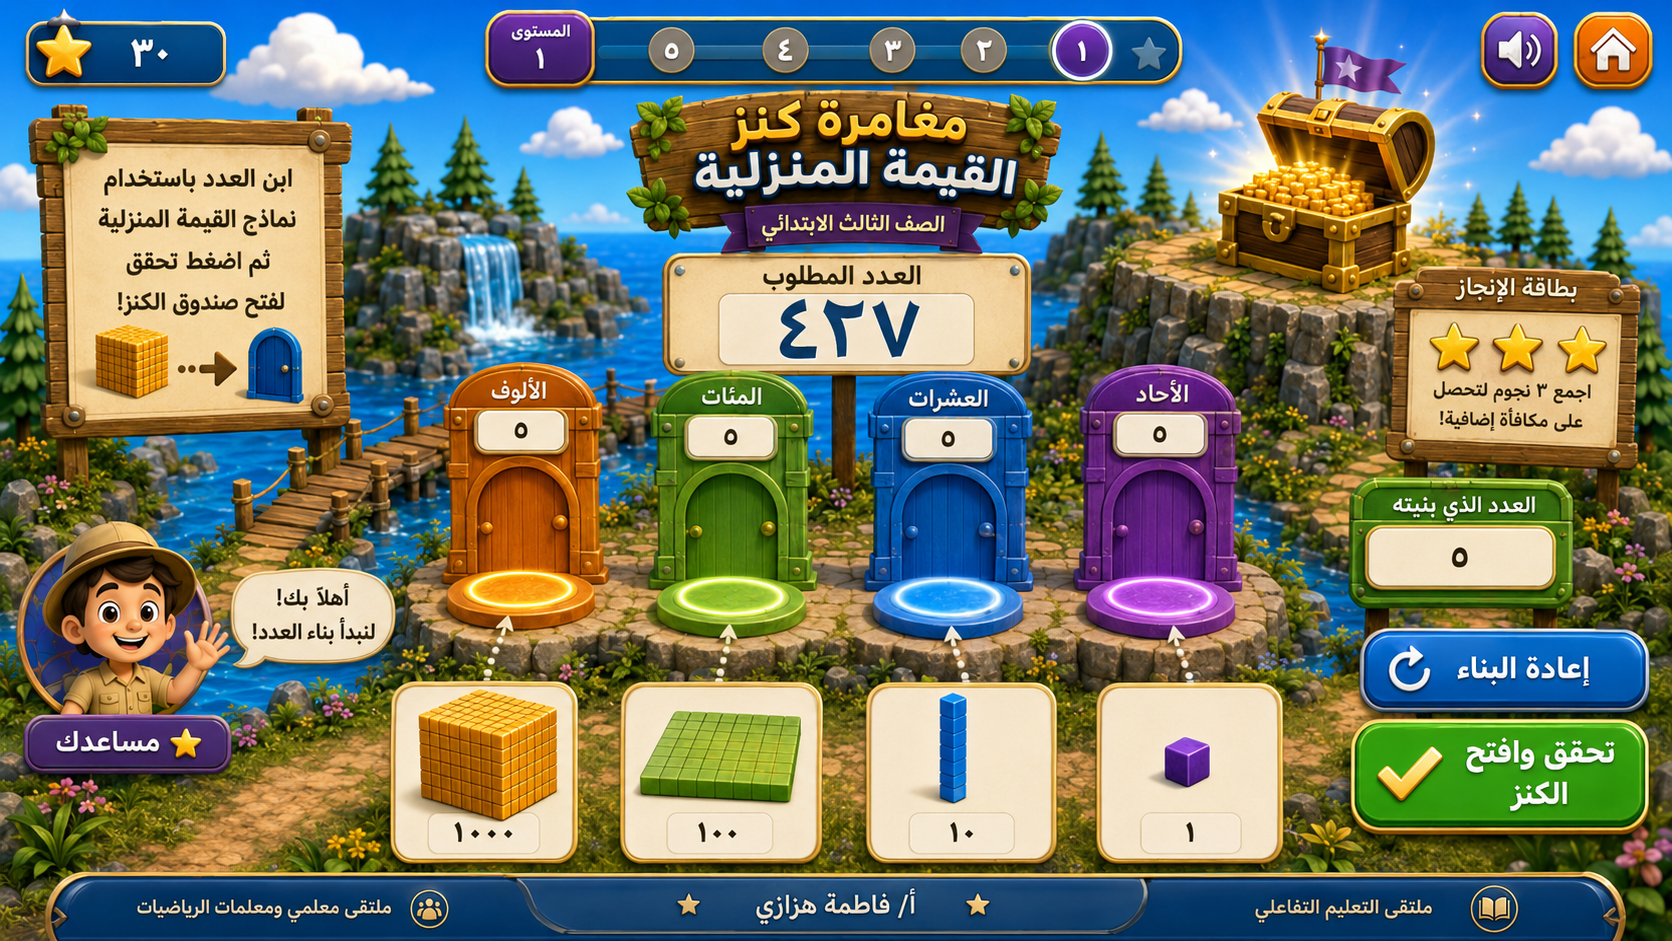
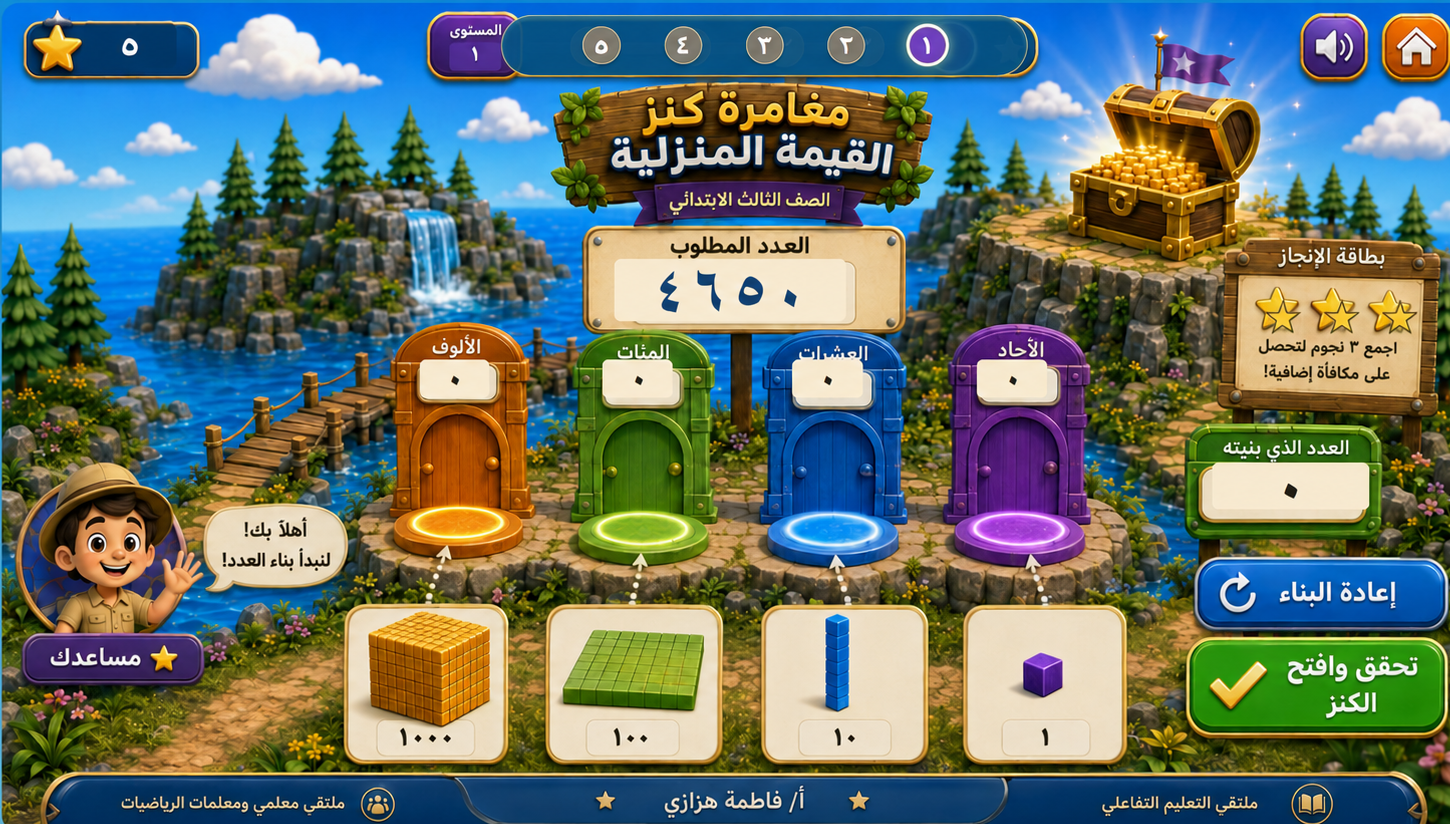
Add files via upload

diff --git a/styles.css b/styles.css
@@ -7,8 +7,8 @@ html,body{margin:0;min-height:100%;background:linear-gradient(#148fda,#75c8e8);c
 body{padding:8px;overflow-x:hidden}
 button,input{font:inherit}
 button{touch-action:manipulation}
-.app{width:min(100%,1672px);margin:auto}
-.stage{position:relative;width:100%;aspect-ratio:1672/941;background:url('assets/treasure-bg.png') center/100% 100% no-repeat;border-radius:20px;overflow:hidden;box-shadow:0 14px 42px rgba(3,58,91,.30);user-select:none;-webkit-user-select:none;isolation:isolate}
+.app{width:min(100%,1450px);margin:auto}
+.stage{position:relative;width:100%;aspect-ratio:1450/824;background:url('assets/treasure-bg.png') center/100% 100% no-repeat;border-radius:20px;overflow:hidden;box-shadow:0 14px 42px rgba(3,58,91,.30);user-select:none;-webkit-user-select:none;isolation:isolate}
 .screen-shade{position:absolute;inset:0;background:rgba(3,43,64,.10);z-index:2;pointer-events:none;transition:background .25s}
 .ui-panel,.parchment{background:linear-gradient(180deg,#fff7df,#f3ddb1);border:2px solid #8a5b27;box-shadow:inset 0 0 0 2px rgba(255,255,255,.45),0 5px 12px rgba(56,31,10,.18);color:var(--ink)}
 .score-box{position:absolute;z-index:20;left:1.6%;top:1.7%;width:11.4%;height:7.3%;display:flex;align-items:center;justify-content:center;gap:9%;border-radius:15px;background:#106da9;border-color:#f6c65a;color:#fff;font-size:clamp(14px,2.5vw,39px);font-weight:900;text-shadow:0 2px 2px rgba(0,0,0,.28)}
@@ -18,8 +18,6 @@ button{touch-action:manipulation}
 .progress{position:absolute;z-index:19;left:34.1%;top:1.5%;width:35.9%;height:7.4%;border-radius:999px;background:rgba(5,83,132,.92);border:2px solid rgba(255,217,97,.85);display:flex;direction:rtl;align-items:center;justify-content:space-around;padding:0 4%;box-shadow:inset 0 2px 5px rgba(255,255,255,.22)}
 .progress span{width:9.2%;aspect-ratio:1;border-radius:50%;display:grid;place-items:center;background:#817d72;border:2px solid #e8d99f;color:#fff;font-weight:900;font-size:clamp(10px,1.55vw,25px);box-shadow:0 2px 5px rgba(0,0,0,.25)}
 .progress span.done{background:#4aa22a}.progress span.current{background:#7445c0;box-shadow:0 0 0 3px white,0 0 18px #ffe870}
-.hint-board{position:absolute;z-index:18;left:2.0%;top:12.2%;width:19.1%;height:31.2%;border-radius:9px;padding:4% 1.4% 2%;text-align:center;display:flex;flex-direction:column;align-items:center;justify-content:center}
-.hint-board h2{margin:0 0 .45em;font-size:clamp(14px,2.15vw,34px)}.hint-board p{margin:0;font-size:clamp(11px,1.45vw,23px);line-height:1.65;font-weight:800}
 .target-card{position:absolute;z-index:18;left:39.4%;top:26.4%;width:21.0%;height:13.6%;border-radius:12px;display:flex;flex-direction:column;align-items:center;justify-content:center;padding-top:1%;text-align:center}
 .target-card span{font-size:clamp(12px,1.55vw,25px);font-weight:900}.target-card strong{font-size:clamp(30px,5.25vw,83px);color:#123e70;line-height:1.02;font-weight:900;letter-spacing:.04em}
 .built-card{position:absolute;z-index:18;left:82.2%;top:51.7%;width:13.2%;height:12.4%;border-radius:10px;background:linear-gradient(#3b9b2a,#256e20);border:3px solid #846022;box-shadow:inset 0 0 0 3px rgba(255,255,255,.2);display:flex;flex-direction:column;align-items:center;justify-content:center;color:#fff;text-shadow:0 2px 1px rgba(0,0,0,.24)}
@@ -60,14 +58,12 @@ button{touch-action:manipulation}
 .confetti{position:absolute;z-index:80;inset:0;pointer-events:none;overflow:hidden}.confetti i{position:absolute;top:-5%;width:10px;height:17px;border-radius:3px;background:var(--c);animation:fall 1.45s ease-in forwards;transform:rotate(var(--r))}@keyframes fall{to{top:105%;transform:translateX(var(--x)) rotate(570deg)}}
 .modal-screen{position:absolute;z-index:100;inset:0;display:grid;place-items:center;padding:4%;background:rgba(3,43,67,.54);backdrop-filter:blur(3px)}.modal-screen[hidden]{display:none}.start-card,.reward-card{width:min(92%,620px);border-radius:24px;padding:28px 36px;text-align:center}.treasure-mark{margin:auto;width:72px;height:72px;border-radius:50%;display:grid;place-items:center;background:linear-gradient(#ffdf5a,#f2a90c);border:5px solid #fff0a6;color:white;font-size:42px;text-shadow:0 3px 0 #a76d00;box-shadow:0 8px 20px rgba(0,0,0,.2)}.eyebrow{margin:10px 0 0;color:#68421a;font-weight:900}.start-card h1{margin:.2em 0;color:#174a76;font-size:clamp(30px,5vw,62px);line-height:1.05;text-shadow:0 2px 0 #fff}.start-copy{font-size:clamp(14px,1.7vw,22px);line-height:1.7}.name-label{display:block;text-align:right;font-weight:900;margin:12px 0 6px}.name-label span{font-weight:500;font-size:.82em;color:#7a674e}.name-input{width:100%;min-height:52px;border-radius:14px;border:2px solid #c89a53;background:#fffdf6;padding:0 16px;font-size:20px;color:#34230f;outline:none}.name-input:focus{border-color:#187ebd;box-shadow:0 0 0 4px rgba(24,126,189,.18)}.big-start{margin-top:16px;width:100%;min-height:58px;border:0;border-radius:16px;background:linear-gradient(#62b92c,#338c12);color:white;font-size:clamp(18px,2vw,27px);font-weight:900;text-shadow:0 2px 1px rgba(0,0,0,.25);box-shadow:inset 0 0 0 3px rgba(255,255,255,.27),0 5px 0 #27730d;cursor:pointer}.big-start:focus-visible{outline:4px solid #126ca6}.sound-note{font-size:12px;color:#765c3f;margin:14px 0 6px}.signature{font-weight:900;color:#443017;border-top:1px solid rgba(107,68,26,.22);padding-top:10px}.reward-card{width:min(90%,500px)}.reward-icon{font-size:64px}.reward-card h2{font-size:clamp(30px,4vw,54px);color:#174a76;margin:.15em 0}.reward-card p{font-size:clamp(14px,1.7vw,23px)}.reward-stars{direction:ltr;color:#ffbf19;font-size:clamp(38px,6vw,72px);letter-spacing:.12em;text-shadow:0 2px 0 #8e5a00}.reward-score strong{font-size:1.35em;color:#174a76}
 .certificate-screen{z-index:120;background:rgba(0,46,70,.72);padding:2%}.certificate{width:min(94%,850px);background:radial-gradient(circle at top,#fffef5,#f5e5b9);border:11px double #bd8424;border-radius:18px;color:#3b2a14;text-align:center;padding:32px 46px 24px;box-shadow:0 18px 45px rgba(0,0,0,.3);position:relative}.cert-stars{direction:ltr;color:#e6aa17;font-size:32px;letter-spacing:.2em}.cert-top{font-weight:900;color:#76521d;margin:.2em 0}.certificate h2{margin:.1em 0 .35em;color:#174d79;font-size:clamp(34px,5vw,64px)}.certificate p{font-size:clamp(14px,1.65vw,22px);line-height:1.65}.student-line{margin:13px auto;padding:7px 20px;width:min(88%,560px);border-bottom:3px solid #bb8b37;font-size:clamp(26px,3.5vw,46px);font-weight:900;color:#52310d}.cert-stats{display:flex;gap:18px;justify-content:center;flex-wrap:wrap;margin:18px 0}.cert-stats span{background:#fff7de;border:2px solid #d5ad63;border-radius:999px;padding:8px 18px;font-weight:900}.cert-stats strong{color:#174d79}.cert-date{color:#76521d}.cert-sign{margin-top:22px;font-weight:900;font-size:18px}.cert-footer{margin-top:9px;font-size:13px;color:#6e5c43}.certificate-actions{margin-top:22px;display:flex;gap:12px;justify-content:center;flex-wrap:wrap}.certificate-actions button{min-height:48px;border:0;border-radius:12px;padding:0 24px;color:white;font-weight:900;background:#176fab;cursor:pointer}.certificate-actions button:last-child{background:#3f9220}
-.help{margin:.55rem auto 0;max-width:1150px;text-align:center;background:rgba(5,61,94,.78);border:1px solid rgba(255,255,255,.35);border-radius:14px;padding:.55rem .9rem;font-size:clamp(12px,1.4vw,18px);line-height:1.65}.help b{color:#ffe985}
 body.quiz-mode .target-card,body.quiz-mode .built-card,body.quiz-mode .count-badge,body.quiz-mode .door,body.quiz-mode .model,body.quiz-mode .reset{opacity:0;pointer-events:none}
-body.quiz-mode .hint-board{z-index:42}
-body.quiz-mode .check{display:none}
-@media(max-width:780px){body{padding:4px}.stage{border-radius:9px}.hint-board{padding-top:2%}.options{gap:7px}.option{min-height:52px}.quiz-panel{padding:2%}.toast{max-width:90%;min-width:55%}.start-card{padding:22px}.certificate{padding:20px 18px;border-width:7px}.help{font-size:12px}}
+body.quiz-mode body.quiz-mode .check{display:none}
+@media(max-width:780px){body{padding:4px}.stage{border-radius:9px}.options{gap:7px}.option{min-height:52px}.quiz-panel{padding:2%}.toast{max-width:90%;min-width:55%}.start-card{padding:22px}.certificate{padding:20px 18px;border-width:7px}}
 @media(prefers-reduced-motion:reduce){*{animation:none!important;transition:none!important}.chest-lid{display:none}}
 @media print{
-  body{background:#fff;padding:0}.app{width:100%}.stage{background:none;aspect-ratio:auto;overflow:visible;box-shadow:none}.stage>*:not(.certificate-screen){display:none!important}.certificate-screen{position:static;display:block!important;background:#fff;padding:0}.certificate{width:100%;max-width:none;min-height:95vh;box-shadow:none;border:10px double #9b6d1f;display:flex;flex-direction:column;justify-content:center}.no-print{display:none!important}.help{display:none!important}
+  body{background:#fff;padding:0}.app{width:100%}.stage{background:none;aspect-ratio:auto;overflow:visible;box-shadow:none}.stage>*:not(.certificate-screen){display:none!important}.certificate-screen{position:static;display:block!important;background:#fff;padding:0}.certificate{width:100%;max-width:none;min-height:95vh;box-shadow:none;border:10px double #9b6d1f;display:flex;flex-direction:column;justify-content:center}.no-print{display:none!important}
 }
 
 /* ===== V2.1: ضبط بصري دقيق فوق الواجهة الأصلية ===== */
@@ -93,14 +89,6 @@ body.quiz-mode .check{display:none}
 }
 
 /* لوحة التعليمات: نترك الإطار الخشبي الأصلي ظاهرًا. */
-.hint-board{
-  left:3.65%;top:13.45%;width:16.55%;height:28.25%;
-  border:0;box-shadow:none;border-radius:3px;
-  background:linear-gradient(180deg,rgba(255,246,218,.985),rgba(248,227,184,.985));
-  padding:2.4% 1.15% 1.7%
-}
-.hint-board h2{font-size:clamp(15px,2.02vw,33px);margin:0 0 .35em}
-.hint-board p{font-size:clamp(11px,1.35vw,22px);line-height:1.55}
 
 /* بطاقة العدد المطلوب: نبقي اللوحة الأصلية ونستبدل الرقم فقط. */
 .target-card{
@@ -191,6 +179,56 @@ body.quiz-mode .check{display:none}
 #scoreDisplay,#levelDisplay,#targetDisplay,#builtDisplay,.count-badge,.progress span,.reward-score strong,.cert-stats strong{direction:ltr;unicode-bidi:isolate}
 
 @media(max-width:780px){
-  .hint-board{padding:1.7% .9%}
-  .target-card strong{top:35%;height:54%}
+    .target-card strong{top:35%;height:54%}
+}
+
+
+/* ===== V2.2: واجهة نظيفة بلا لوحة تعليمات جانبية وبلا شريط سفلي ===== */
+html,body{background:#168fd4}
+body{padding:0}
+.stage{border-radius:0;box-shadow:none}
+
+/* العدد المطلوب على الصورة النظيفة */
+.target-card{left:39.15%;top:27.05%;width:21.35%;height:12.75%}
+.target-card strong{left:12.8%;top:33%;width:74.4%;height:57%}
+
+/* خانة العدد الذي بناه الطالب */
+.built-card{left:80.75%;top:51.05%;width:14.4%;height:13.4%}
+.built-card strong{left:10%;top:37%;width:80%;height:40%}
+
+/* عدادات المنازل */
+.count-badge{top:43.2%}
+#countThousands{left:28.45%}
+#countHundreds{left:40.95%}
+#countTens{left:53.70%}
+#countOnes{left:66.30%}
+
+/* الأبواب ومناطق الإسقاط */
+.door{top:39.0%;height:28.7%;width:11.45%}
+#doorThousands{left:25.85%}
+#doorHundreds{left:38.35%}
+#doorTens{left:51.10%}
+#doorOnes{left:63.70%}
+
+/* بطاقات نماذج القيمة المنزلية */
+.model{top:72.1%;height:19.1%}
+#modelThousands{left:23.35%;width:13.1%}
+#modelHundreds{left:36.55%;width:14.1%}
+#modelTens{left:51.00%;width:12.6%}
+#modelOnes{left:64.65%;width:12.0%}
+
+/* مناطق النقر على الأزرار الأصلية */
+.reset{left:80.75%;top:66.8%;width:17.55%;height:9.2%}
+.check{left:80.70%;top:76.8%;width:17.65%;height:13.2%}
+#soundBtn{left:87.30%}
+#homeBtn{left:93.25%}
+.current-stars{left:85.05%;top:33.8%;width:12.1%;height:7.2%}
+.chest-effect{left:71.75%;top:6.0%;width:17.4%;height:25.5%}
+
+/* لا توجد مساحة خارجية أسفل اللعبة؛ الرسائل تظهر داخل المشهد فقط. */
+.toast{bottom:2.2%}
+
+@media(max-width:780px){
+  body{padding:0}
+  .stage{border-radius:0}
 }

diff --git a/game.js b/game.js
@@ -17,7 +17,7 @@
 
   const els={
     stage:document.querySelector('#stage'), score:document.querySelector('#scoreDisplay'), level:document.querySelector('#levelDisplay'), progress:document.querySelector('#progress'),
-    hintTitle:document.querySelector('#hintTitle'), hintText:document.querySelector('#hintText'), targetCard:document.querySelector('#targetCard'), targetLabel:document.querySelector('#targetLabel'), target:document.querySelector('#targetDisplay'), built:document.querySelector('#builtDisplay'), builtCard:document.querySelector('#builtCard'),
+    targetCard:document.querySelector('#targetCard'), targetLabel:document.querySelector('#targetLabel'), target:document.querySelector('#targetDisplay'), built:document.querySelector('#builtDisplay'), builtCard:document.querySelector('#builtCard'),
     quizPanel:document.querySelector('#quizPanel'), quizKicker:document.querySelector('#quizKicker'), quizQuestion:document.querySelector('#quizQuestion'), quizPrompt:document.querySelector('#quizPrompt'), options:document.querySelector('#options'), quizStatus:document.querySelector('#quizStatus'),
     reset:document.querySelector('#resetBtn'), check:document.querySelector('#checkBtn'), home:document.querySelector('#homeBtn'), sound:document.querySelector('#soundBtn'), currentStars:document.querySelector('#currentStars'), chest:document.querySelector('#chestEffect'), toast:document.querySelector('#toast'), confetti:document.querySelector('#confetti'), ghost:document.querySelector('#dragGhost'),
     startScreen:document.querySelector('#startScreen'), studentName:document.querySelector('#studentName'), start:document.querySelector('#startBtn'), rewardScreen:document.querySelector('#rewardScreen'), rewardTitle:document.querySelector('#rewardTitle'), rewardMessage:document.querySelector('#rewardMessage'), rewardStars:document.querySelector('#rewardStars'), rewardScore:document.querySelector('#rewardScore'), next:document.querySelector('#nextBtn'),
@@ -154,7 +154,6 @@
     document.body.classList.remove('quiz-mode');els.quizPanel.hidden=true;els.targetCard.hidden=false;els.builtCard.hidden=false;els.reset.hidden=false;els.check.hidden=false;
     state.target=randomNumber(120,9876);state.solved=false;state.attempts=0;setRoundStars(3);placeOrder.forEach(k=>state.counts[k]=0);state.selected=null;
     els.targetLabel.textContent='العدد المطلوب';els.target.textContent=ar(state.target);
-    els.hintTitle.textContent='ابنِ العدد';els.hintText.textContent='اختر نموذج القيمة المنزلية، ثم ضعه في الباب المناسب. اضغط العدد أعلى الباب لتقليل نموذج واحد.';
     els.check.textContent='✓ تحقق وافتح الكنز';renderCore();toast('كوّن العدد '+ar(state.target)+' باستخدام النماذج.');
   }
 
@@ -182,7 +181,6 @@
     quiz.options.forEach(text=>{
       const b=document.createElement('button');b.type='button';b.className='option';b.textContent=text;b.dataset.value=text;b.addEventListener('click',()=>answerQuiz(b));els.options.appendChild(b);
     });
-    els.hintTitle.textContent=quiz.kicker;els.hintText.textContent=state.level===5?'التحدي النهائي '+ar(state.finalStep+1)+' من ٣. اختر الإجابة الصحيحة لتحصل على نجمة الكنز.':'اقرأ السؤال جيدًا، ثم اختر الإجابة الصحيحة من البطاقات.';
     renderCore();
   }
 

diff --git a/index.html b/index.html
@@ -4,7 +4,7 @@
   <meta charset="utf-8">
   <meta name="viewport" content="width=device-width,initial-scale=1,viewport-fit=cover">
   <meta name="theme-color" content="#157bbf">
-  <meta name="description" content="مغامرة كنز القيمة المنزلية - لعبة تفاعلية للصف الثالث الابتدائي">
+  <meta name="description" content="مغامرة كنز القيمة المنزلية - لعبة تفاعلية للصف الثالث الابتدائي - V2.2">
   <title>مغامرة كنز القيمة المنزلية</title>
   <link rel="manifest" href="manifest.webmanifest">
   <link rel="icon" href="assets/icon-192.png">
@@ -19,11 +19,6 @@
     <div class="score-box ui-panel" aria-label="النقاط"><span class="score-star">★</span><span id="scoreDisplay">٠</span></div>
     <div class="level-badge ui-panel"><small>المستوى</small><strong id="levelDisplay">١</strong></div>
     <div class="progress" id="progress" aria-label="التقدم في المستويات"></div>
-
-    <section class="hint-board parchment" id="hintBoard" aria-live="polite">
-      <h2 id="hintTitle">ابنِ العدد</h2>
-      <p id="hintText">اختر نموذج القيمة المنزلية، ثم ضعه في الباب المناسب.</p>
-    </section>
 
     <section class="target-card parchment" id="targetCard">
       <span id="targetLabel">العدد المطلوب</span>
@@ -127,7 +122,6 @@
     </section>
   </section>
 
-  <p class="help"><b>طريقة اللعب:</b> في مستوى البناء اسحب بطاقة النموذج إلى الباب الصحيح، أو اضغط البطاقة ثم الباب. اضغط عدد النماذج أعلى الباب لتقليل نموذج واحد عند الحاجة.</p>
 </main>
 
 <div id="dragGhost" class="drag-ghost" aria-hidden="true"><span></span></div>

diff --git a/sw.js b/sw.js
@@ -1,4 +1,4 @@
-const CACHE='place-value-treasure-v2-1-polish';
+const CACHE='place-value-treasure-v2-2-clean';
 const ASSETS=['./','./index.html','./styles.css','./game.js','./manifest.webmanifest','./assets/treasure-bg.png','./assets/icon-192.png','./assets/icon-512.png'];
 self.addEventListener('install',e=>e.waitUntil(caches.open(CACHE).then(c=>c.addAll(ASSETS)).then(()=>self.skipWaiting())));
 self.addEventListener('activate',e=>e.waitUntil(caches.keys().then(keys=>Promise.all(keys.filter(k=>k!==CACHE).map(k=>caches.delete(k)))).then(()=>self.clients.claim())));

diff --git a/README.md b/README.md
@@ -1,30 +1,18 @@
-# مغامرة كنز القيمة المنزلية — V2.1
+# مغامرة كنز القيمة المنزلية — V2.2
 
-لعبة عربية تفاعلية للصف الثالث الابتدائي.
+نسخة تفاعلية عربية للصف الثالث الابتدائي.
 
-## ما الجديد في V2.1
-- صقل الواجهة بحيث تبقى الإطارات والأزرار الأصلية من الرسم ظاهرة بدون مستطيلات إضافية.
-- إزالة الغطاء البني فوق صندوق الكنز واستبداله بتوهج وشرارات شفافة.
-- ضبط أدق لخانات العدد المطلوب، العدد المبني، العدادات، ومناطق إسقاط الأبواب.
-- إضافة حركة انتقال نموذج القيمة المنزلية من البطاقة إلى الباب الصحيح.
-- عرض قيمة النموذج أثناء السحب بالأرقام العربية.
-- ضبط مناطق النقر والسحب على واجهة اللعبة.
-- الأرقام العربية ٠١٢٣٤٥٦٧٨٩ في جميع القيم الديناميكية.
-- السحب والإفلات بالماوس واللمس والقلم + بديل بالنقر.
-- إمكانية تقليل نموذج واحد بالضغط على عداد المنزلة.
-- حركة فتح صندوق الكنز مع توهج واحتفال.
-- المستوى ١: بناء العدد بنماذج القيمة المنزلية.
-- المستوى ٢: الصيغة القياسية.
-- المستوى ٣: الصيغة التحليلية.
-- المستوى ٤: الصيغة اللفظية.
-- المستوى ٥: تحدٍ نهائي من ٣ أسئلة متنوعة.
-- شاشة بداية باسم اللاعب.
+## أهم تعديل في V2.2
+- حذف لوحة التعليمات الكبيرة من يسار اللعبة نهائيًا.
+- حذف شريط «طريقة اللعب» أسفل اللعبة نهائيًا.
+- اعتماد خلفية نظيفة بدون اللوحة الجانبية.
+- إعادة ضبط أماكن السحب والضغط على الأبواب وبطاقات نماذج القيمة المنزلية.
+- الإبقاء على التعليمات القصيرة داخل رسائل اللعبة المؤقتة فقط.
+- جميع الأرقام الديناميكية بالأرقام العربية ٠١٢٣٤٥٦٧٨٩.
+- المستويات: بناء العدد، الصيغة القياسية، الصيغة التحليلية، الصيغة اللفظية، تحدي الكنز النهائي.
 - شهادة إنجاز نهائية قابلة للطباعة.
-- يعمل كـ PWA ويمكن نشره مباشرة على GitHub Pages.
-- مؤثرات صوتية بسيطة فقط، بدون موسيقى.
+- بدون موسيقى؛ مؤثرات صوتية بسيطة يمكن إيقافها.
+- تذييل: أ/ فاطمة هزازي — ملتقى التعليم التفاعلي — ملتقى معلمي ومعلمات الرياضيات.
 
 ## النشر على GitHub Pages
-ارفع **كل محتويات هذا المجلد** إلى جذر المستودع، وتأكد أن `index.html` في المستوى الأعلى، ثم فعّل GitHub Pages من Settings > Pages.
-
-## التذييل
-أ/ فاطمة هزازي — ملتقى التعليم التفاعلي — ملتقى معلمي ومعلمات الرياضيات
+ارفع جميع الملفات والمجلدات الموجودة داخل هذا المجلد إلى جذر المستودع. إذا كان إصدار قديم مفتوحًا على الجهاز، حدّث الصفحة تحديثًا قويًا مرة واحدة لأن V2.2 يستخدم اسم Cache جديدًا.
